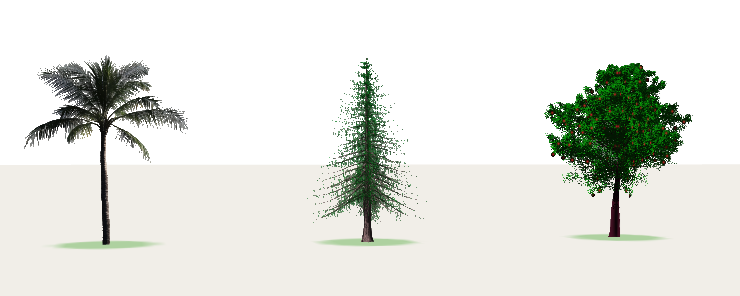
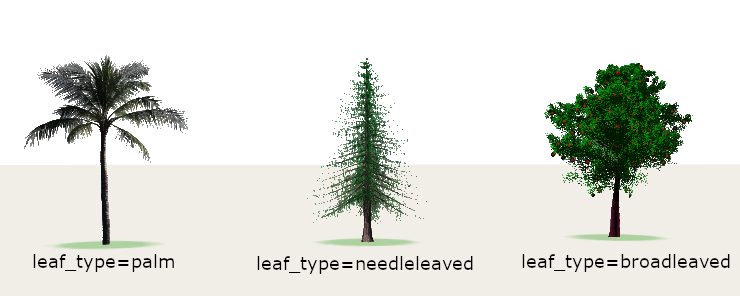
documentation updated

Changed region(s): [[0.6838, 0.8514, 0.9946, 0.9122], [0.3419, 0.8514, 0.6527, 0.9426], [0.0311, 0.8514, 0.2486, 0.9122]]

diff --git a/docs/features.md b/docs/features.md
@@ -376,12 +376,13 @@ The plugin renders some natural features to provide more context to the 3D scene
 ### Trees
 
 -   Nodes tagged with `natural=tree` are rendered as 3D models.
-![Trees](images/trees.png)
 -   The rendering uses a simple "billboard" or "cross-plane" technique with a tree texture.
+![Trees](images/tree_tags.png)
 -   The `height` tag can be used to specify the height of the tree. If not present, a default height is used.
 -   The `diameter_crown` is respected and affects both folliage diameter and estimated height.
 -   The `circumference` tag does not have direct effect on the trunk diameter, but is used to estimate tree height. 
 -   The `leaf_type` tag can be used to select a specific "type" of tree. Supported values are `broadleaved`, `needleleaved` and `palm`.
+![Trees](images/trees.png)
 -   The plugin includes a built-in database of tree species. If the `species` or `genus` tag is present, the plugin automatically infers the `leaf_type` (`broadleaved`, `needleleaved` or `palm`). 
 -   The tree species database contains approximately [2000 tree species names](tree_species.md) with their corresponding `leaf_type` value.  The data is collected from the OSM statistics, the [OSM Wiki: List of Species](https://wiki.openstreetmap.org/wiki/Tag:natural%3Dtree/List_of_Species) and verified via [POWO](https://powo.science.kew.org/). The species database is updated from time to time, when a new version of the plugin is released.
 -   **Validation:** The JOSM validator alerts the user if an unknown or misspelled `species` or `genus` tag is used, helping to maintain data quality in OSM.

diff --git a/docs/release_notes/v2.7.0/release_notes.md b/docs/release_notes/v2.7.0/release_notes.md
@@ -18,8 +18,6 @@ From the OSM Note:
 
 ![United Nantions building](flags2.png)
 
-
-
 ### How does it work
 
 For a flag to appear in the plugin, three things are required:
@@ -50,6 +48,8 @@ The `barrier=wicket_gate` tag is rendered as a smaller gate or door for pedestri
 ## The `diameter_crown` Tag for Trees. 
 The `diameter_crown` key is quite popular ([730K occurences](https://taginfo.openstreetmap.org/keys/diameter_crown#chronology) in the OSM database), and has been gaining popularity in the recent months, so the plugin now supports it. 
 Tree models are scaled according to the tag value.
+
+![Trees](tree_tags.png)
 
 ---
 The Urban Eye is watching you! 
